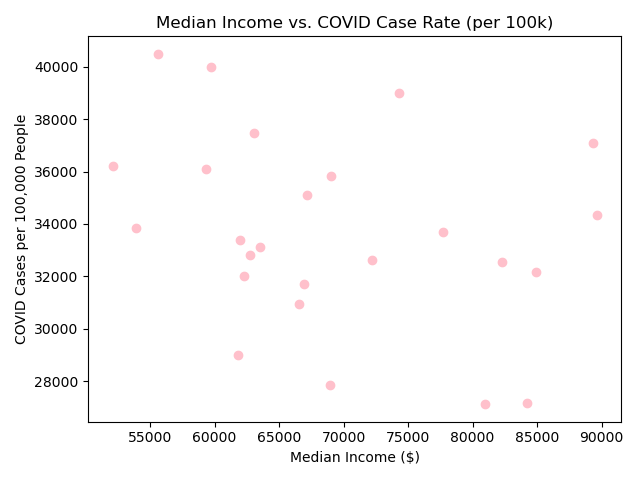
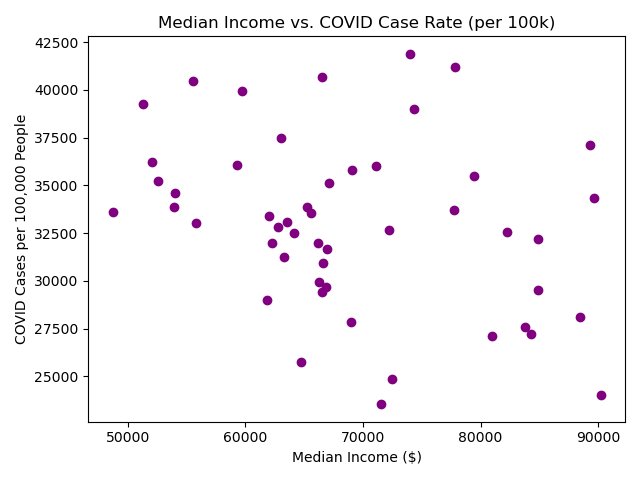
when loading all tables they are limited to 25

diff --git a/final.py b/final.py
@@ -149,7 +149,7 @@ def insert_combined_data(covid_data, election_dict, cur, conn):
                     state, cases, deaths, population, tests, party_id
                 ) VALUES (?, ?, ?, ?, ?, ?)
             ''', (
-                state, entry['cases'], entry['deaths'], entry['population'], entry['tests'], party_id
+                state, entry['cases'], entry['deaths'], entry['population'], entry.get('tests', 0), party_id
             ))
             inserted_count += 1
 
@@ -183,10 +183,21 @@ def insert_split_poverty_data(cur, conn):
     with open("poverty_data.json", "r") as file:
         data = json.load(file)
 
-    for row in data[1:]:  
-        state_name = row[0]
+    # Get already inserted state codes
+    cur.execute("SELECT state_code FROM states")
+    inserted_codes = set(row[0] for row in cur.fetchall())
+
+    inserted_count = 0
+    for row in data[1:]:  # Skip header
+        if inserted_count >= 25:
+            break
+
         try:
-            state_code = int(row[7])  
+            state_code = int(row[7])  # FIPS code
+            if state_code in inserted_codes:
+                continue
+
+            state_name = row[0]
             poverty_population = int(row[1])
             poverty_universe = int(row[2])
             median_income = int(row[3])
@@ -194,15 +205,15 @@ def insert_split_poverty_data(cur, conn):
             hs_grads = int(row[5])
             bachelors = int(row[6])
         except ValueError:
-            continue  
+            continue
 
-        
+        # Insert into states
         cur.execute('''
             INSERT OR IGNORE INTO states (state_code, state_name)
             VALUES (?, ?)
         ''', (state_code, state_name))
 
-        
+        # Insert into poverty_stats
         cur.execute('''
             INSERT OR REPLACE INTO poverty_stats (
                 state_code, poverty_population, poverty_universe, median_income,
@@ -213,7 +224,11 @@ def insert_split_poverty_data(cur, conn):
             median_income, total_25plus, hs_grads, bachelors
         ))
 
+        inserted_codes.add(state_code)  # Track that it’s now inserted
+        inserted_count += 1
+
     conn.commit()
+
 
 def get_joined_data(cur):
     query = '''
@@ -269,10 +284,10 @@ def plot_death_rate_by_party(cur):
         death_rates.append(death_rate)
 
     plt.figure(figsize=(8, 6))
-    plt.bar(parties, death_rates, color='pink')
+    plt.barh(parties, death_rates, color='pink')
     plt.title("COVID Death Rate by Party (per 100k)")
-    plt.xlabel("Political Party")
-    plt.ylabel("Deaths per 100,000 People")
+    plt.ylabel("Political Party")  # Now on the y-axis
+    plt.xlabel("Deaths per 100,000 People")
     plt.tight_layout()
     plt.savefig("covid_death_rate_by_party.png")
     plt.close()
@@ -332,7 +347,7 @@ def plot_income_vs_case_rate(cur):
             incomes.append(income)
             case_rates.append((cases / pop) * 100000)
 
-    plt.scatter(incomes, case_rates, color='pink')
+    plt.scatter(incomes, case_rates, color='purple')
     plt.title("Median Income vs. COVID Case Rate (per 100k)")
     plt.xlabel("Median Income ($)")
     plt.ylabel("COVID Cases per 100,000 People")
@@ -364,7 +379,7 @@ def plot_education_vs_case_rate(cur):
         case_rate.append(covid_case_rate)
 
     plt.figure(figsize=(9, 6))
-    plt.scatter(bachelors_percent, case_rate, alpha=0.7, color='pink')
+    plt.scatter(bachelors_percent, case_rate, alpha=0.7, color='black')
     plt.title("% Bachelor's Degree vs. COVID Case Rate")
     plt.xlabel("% of Adults with Bachelor's Degree")
     plt.ylabel("COVID Cases per 100,000")
